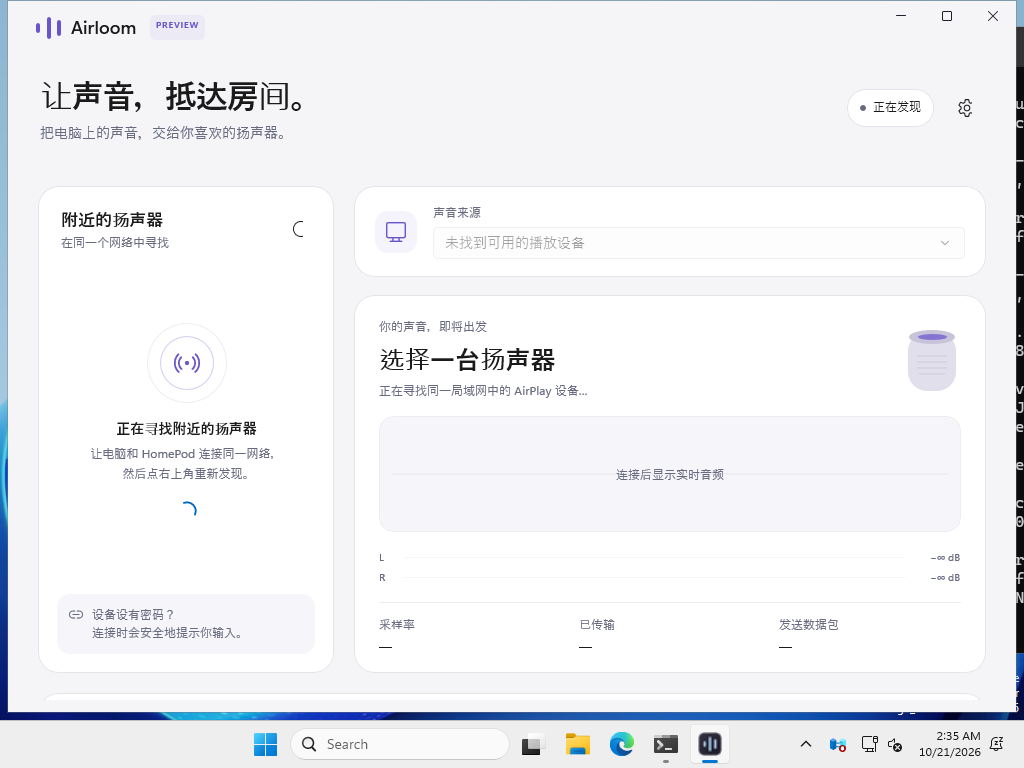
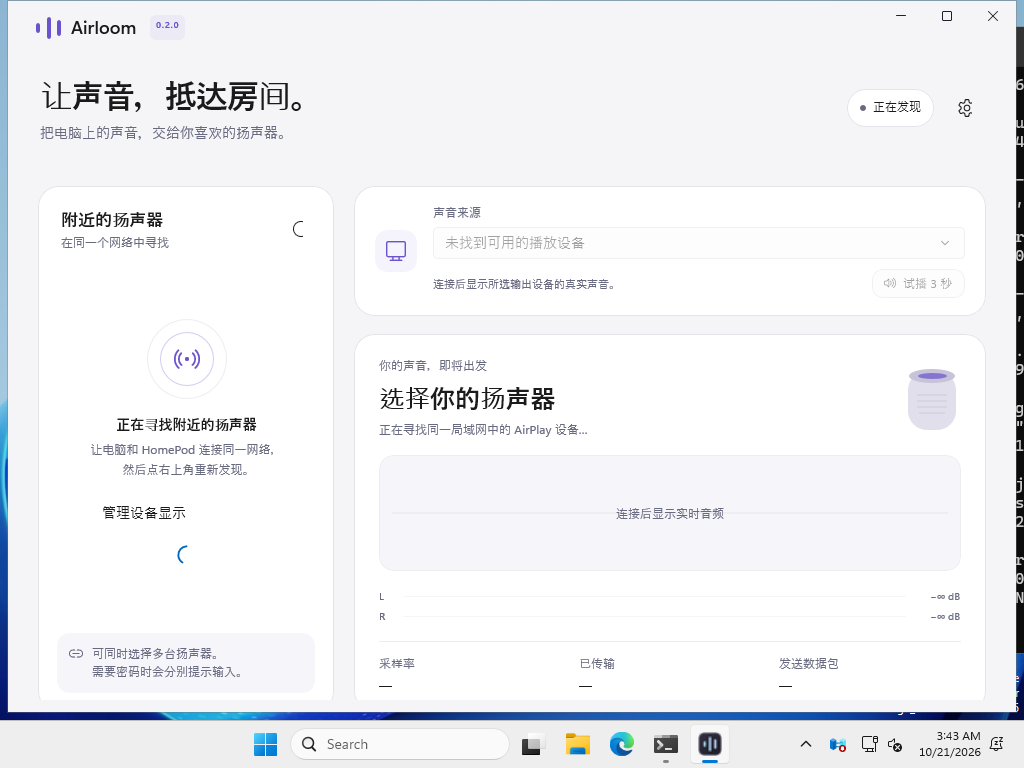
docs: publish 0.2.0 downloads, native evidence and validation scope [skip ci]

diff --git a/README.md b/README.md
@@ -4,7 +4,7 @@
 
 一个从零实现的 Windows 原生音频投放应用：WinUI 3 界面、Rust 音频核心、Windows 自带音频采集。无需安装自定义虚拟声卡驱动。
 
-> **开发中 · 0.1.1**：已提供 Windows 安装包和便携版，并通过原生编译、打包启动及协议自动化检查。真实 HomePod 的播放与兼容性尚待实机验证；当前不承诺全型号、全固件、立体声组合或所有访问控制策略可用。
+> **开发中 · 0.2.0**：修正“已连接、波形正常但无声”相关的 PTP 播放时间报文，加入多设备投放、原生设置页与应用内更新。用户已确认 0.1.1 的采集和连接状态；0.2.0 的真实 HomePod 可听播放仍待实机复测，不承诺全型号、全固件、立体声组合或所有访问控制策略可用。
 
 [![Build and verify](https://github.com/chummumm/airloom/actions/workflows/ci.yml/badge.svg)](https://github.com/chummumm/airloom/actions/workflows/ci.yml)
 [![License: MIT](https://img.shields.io/badge/License-MIT-8b7cf6.svg)](LICENSE)
@@ -13,54 +13,65 @@
 
 ![Airloom 原生窗口的实际 Windows CI 截图](docs/evidence/native-window.png)
 
-这是首版 0.1.0 便携 ZIP 解压后实际启动的 WinUI 3 窗口，0.1.1 保留相同界面布局。CI 没有可用的播放设备，也未连接 HomePod，因此截图显示真实的发现空状态。小屏幕下可向下滚动访问开始投放、音量和静音控制。
+![Airloom 原生设置页及检查更新结果](docs/evidence/settings-window.png)
+
+这是 0.2.0 便携 ZIP 解压后实际启动的 WinUI 3 窗口。Windows CI 打开设置页、执行真实 GitHub 更新检查，再返回首页。CI 没有可用的播放端点，也未连接 HomePod，因此首页显示真实的发现空状态。小屏幕下可滚动访问更多控制。
 
 ## 体验
 
 - **原生界面**：WinUI 3 / C++/WinRT，深浅主题、Mica 背景、设备卡片、连接状态过渡。
 - **实时展示**：由真实音频驱动的波形、左右声道电平和传输指标；没有音频时显示平线，不生成假设备或假播放状态。
 - **免驱投放**：采集系统默认或指定的现有输出设备，通过局域网向 AirPlay 接收端发送。
+- **多设备投放**：一次采集，同一份音频发往多个独立连接。可在播放中选择、取消或重试单台设备；一台等待密码或连接失败，不会停止其他设备。
 - **密码与配对**：区分设备密码、配对码、长期配对凭据；认证失败可以重新输入。记住凭据需要主动勾选，存入 Windows 当前用户的凭据管理器。
+- **独立设置页**：管理主题、波形、登录启动和设备可见性；隐藏选择会保留，离线设备也可恢复显示。
+- **应用内更新**：检查 GitHub 最新正式版本，下载并校验 SHA-256，退出后安装并重新打开。成功、取消或失败后的包会清理；中断和占用残留在后续启动时重试。
 - **托盘控制**：单击打开窗口，右键控制；托盘退出真正结束后台。登录自启可选。
 - **本机静音**：可选，默认关闭；停止时只恢复仍由当前会话拥有的变更，不覆盖用户后来手动修改的状态。
 
 ## 下载与运行
 
-下载 [Airloom 0.1.1 · Latest](https://github.com/chummumm/airloom/releases/latest)：
+下载 [Airloom 0.2.0 · Latest](https://github.com/chummumm/airloom/releases/latest)：
 
-0.1.1 修正首次建立会话时可能导致 `session SETUP 400` 的 MAC 地址格式、PTP 时钟整数编码及 peer 字段问题。升级前先从托盘退出旧版，再运行新安装包；详见[版本说明](docs/releases/0.1.1.md)。
+0.2.0 修正 PTP 公告长度和播放时间映射、多设备监听端口冲突及定时器迟到时的音频生产节奏。升级前先从托盘退出旧版，再运行新安装包；详见[版本说明](docs/releases/0.2.0.md)。
 
 | 文件 | 用途 |
 | --- | --- |
-| [Airloom-0.1.1-setup-x64.exe](https://github.com/chummumm/airloom/releases/download/v0.1.1/Airloom-0.1.1-setup-x64.exe) | 按当前用户安装，约 40 MB |
-| [airloom-windows-x64-portable.zip](https://github.com/chummumm/airloom/releases/download/v0.1.1/airloom-windows-x64-portable.zip) | 完整解压即可运行，约 60 MB |
-| [SHA256SUMS.txt](https://github.com/chummumm/airloom/releases/download/v0.1.1/SHA256SUMS.txt) | 两个下载文件的完整性校验值 |
+| [Airloom-0.2.0-setup-x64.exe](https://github.com/chummumm/airloom/releases/download/v0.2.0/Airloom-0.2.0-setup-x64.exe) | 按当前用户安装 |
+| [airloom-windows-x64-portable.zip](https://github.com/chummumm/airloom/releases/download/v0.2.0/airloom-windows-x64-portable.zip) | 完整解压到新目录后运行 |
+| [SHA256SUMS.txt](https://github.com/chummumm/airloom/releases/download/v0.2.0/SHA256SUMS.txt) | 两个下载文件的完整性校验值 |
 
-0.1.1 来自[全部检查通过的构建](https://github.com/chummumm/airloom/actions/runs/39536144084)，源码提交为 `e82e0e2b1e16f41762244fb1e22614e40d04527d`。发布页也保留原生窗口截图与启动检查结果。后续开发构建可在 [Actions](https://github.com/chummumm/airloom/actions/workflows/ci.yml) 的 `airloom-windows-x64` Artifact 中获取。
+0.2.0 来自[全部检查通过的构建](https://github.com/chummumm/airloom/actions/runs/39539682618)，源码提交为 `f809d70546be63115b61856631eccdc78bed2173`。发布页保留首页、设置页截图与启动/更新检查结果。后续开发构建可在 [Actions](https://github.com/chummumm/airloom/actions/workflows/ci.yml) 的 `airloom-windows-x64` Artifact 中获取。
 
 要求 Windows 11 x64（build 22000 或更高）。电脑与接收端需处于可以互相发现和通信的局域网。解压便携 ZIP 后运行 `Airloom.exe`，或运行安装包。不要只复制 EXE：原生应用和 Windows App SDK 的自包含文件需要放在一起。
 
 1. 打开 Airloom，等待发现设备；必要时点击重新扫描。
-2. 选择 HomePod 和声音来源。
+2. 选择一台或多台 HomePod，以及声音来源。
 3. 点击开始投放；按提示输入设备密码或配对码。
 4. 如需只由接收端播放，可尝试“静音本机”，并确认接收端仍有声音。
 
 程序不需要 Apple Account 密码。Windows 声音输出列表不会新增“Airloom 声卡”；投放设备在本应用中选择。
 
+如果波形正常但音响无声，可按“试播 3 秒”发送独立测试音，并记录设备型号、固件版本和状态提示。波形与发送包数证明采集/发送在工作，不能单独证明接收端已经播放。
+
+从本版本起，在设置中点击“检查更新”可获取后续正式版本。应用内更新使用安装程序更新当前运行目录，清理仅限 Airloom 自己的更新缓存；手动下载到“下载”文件夹的安装包不在清理范围内。详见[更新设计与验证](docs/updates.md)。
+
 ## 已实现的代码与验证边界
 
 | 项目 | 当前范围 |
 | --- | --- |
-| 原生窗口、设备/声源选择、认证界面、波形和托盘 | 独立 WinUI 3 工程，使用真实引擎状态；Windows CI 编译、打包及便携包窗口启动通过 |
+| 原生窗口、设置、设备/声源选择、认证界面、波形和托盘 | 独立 WinUI 3 工程，使用真实引擎状态；Windows CI 编译、打包、设置导航和真实更新检查通过 |
 | Windows 音频 | 已有端点的 WASAPI 共享模式 loopback；格式转换、双声道重采样、有界缓冲 |
 | 单独应用采集 | 暂未提供，不在 UI 展示未实现选项 |
 | AirPlay | 设备发现、独立认证/会话/音频发送实现，详见协议文档 |
 | 密码保护 | 有协议与 UI 实现；需要逐型号、固件和访问策略实测 |
+| 多设备 | 独立发送队列、认证与恢复，共用一次采集；自动测试验证分发完整性和故障隔离，真实多音响效果待测 |
+| 更新与包清理 | 原生助手通过校验拒绝、等待旧进程、成功/取消、重启与缓存清理的 Windows 生命周期测试 |
 | 实际播放延迟 | 尚未测量，不把接收缓冲设置当作端到端实测值 |
 | HomePod 立体声组合、多房间同步 | 未验证 |
-| 真实 HomePod 实机结果 | 已收到首个 SETUP 400 的报告并修正请求格式；等待 0.1.1 实机复测 |
+| 真实 HomePod 实机结果 | 0.1.1 已连接并采集到有效音频，但用户反馈无声；0.2.0 修正可验证的播放时钟报文缺陷，等待实机复测 |
 
-本次发布的 Linux 常规测试 44 项、Windows 常规测试 42 项全部通过。Linux 另通过 FFmpeg 对 ALAC 的独立解码检查；Windows 未安装 FFmpeg，因此该项在那里跳过。其中包含 4 项新增 SETUP 字段与二进制编码回归。认证验证包含独立 SRP 数学向量，以及合成接收端上的密码、PIN、重新验证、加密音频与错误密码拒绝流程。这些检查不替代真实 HomePod 播放测试。
+本次发布的 Linux 常规测试 63 项、Windows 常规测试 61 项全部通过。Linux 另通过 FFmpeg 对完整 RTP 加密负载解密后的 ALAC 独立解码检查；Windows 未安装 FFmpeg，该项在那里跳过。回归包含独立 PTP 抓包 fixture、接收端播放锚点、两个接收端共用真实监听端口、完整加密会话与非零 PCM 解码，以及多设备分发、迟到唤醒、独立认证和恢复。原生更新策略与 Windows 助手生命周期也有独立测试。这些检查不替代真实 HomePod 播放测试。
 
 WASAPI 采集不会自动改变应用的本地输出路由。独占模式、受保护内容、声卡特有音效和静音位置可能影响采集。没有声卡驱动签名问题，但公开下载的预览应用/安装包仍可能出现系统的发布者或信誉提示。
 
@@ -92,6 +103,7 @@ cargo fmt --all -- --check
 | 目录 | 内容 |
 | --- | --- |
 | `native/Airloom` | WinUI 3 / C++/WinRT 原生应用 |
+| `native/Updater` | 独立更新助手、下载校验与缓存清理 |
 | `crates/airloom-core` | 用户操作、连接状态、会话调度、C ABI |
 | `crates/airloom-capture` | Windows 音频采集和凭据存储 |
 | `crates/airloom-airplay` | 独立 AirPlay 发现、认证和发送器 |

diff --git a/docs/architecture.md b/docs/architecture.md
@@ -8,29 +8,39 @@ Airloom 是从零实现的 Windows 桌面项目。它使用 Windows 自带的 WA
 | --- | --- | --- |
 | `airloom-capture` | 已有音频端点枚举、采集、格式转换、重采样、可选本机静音、凭据存储 | COM 生命周期、WASAPI 缓冲区、设备格式、线程归属 |
 | `airloom-airplay` | mDNS 发现、认证、RTSP 控制、音频编码与发送、时钟与重传 | SRP/TLV/加密帧、协议序列、网络包 |
-| `airloom-core` | 用户选择、连接状态、取消、恢复、可观测指标 | 网络与音频模块之间的调度、密码生命周期 |
+| `airloom-core` | 多设备选择、各设备连接状态、共享采集与分发、取消、恢复、可观测指标 | 音频调度、任务代次、各设备密码生命周期 |
 
 `native/Airloom` 是真正的 WinUI 3 应用。它通过一个很小的 UTF-8 JSON C ABI 与 `airloom_core.dll` 交换命令和快照；GUI 线程不执行网络连接或音频采集。ABI 见 [`include/airloom.h`](../include/airloom.h)。
 
 ## 声音与时序
 
-Windows 采集在线程内部转换成 44.1 kHz 双声道浮点 PCM。核心把它量化成 16-bit PCM 后交给发送器。采集队列有界；发送拥塞不能导致无限堆积，恢复连接时不能播放数秒前的陈旧音频。UI 的波形和左右声道电平来自真实 PCM；空闲状态为平线。
+Windows 采集在线程内部转换成 44.1 kHz 双声道浮点 PCM。所有所选设备共用一次采集；核心把每个完整音频块量化成 16-bit PCM，以共享数据分别交给各设备独立的有界队列。每个 Sender 在自己的任务中控制发送节奏，既不争抢采集数据，也不让慢设备阻塞其他设备。PTP 网络端口按本地接口共用，各接收端的时钟跟随状态仍然独立。
+
+核心按单调时间线每 10 ms 产生 441 帧，定时器只负责唤醒。延迟唤醒按应有的块数补齐，每次最多补 8 块；超过 200 ms 的停顿丢弃旧采集积压后恢复。各设备最多排队 16 个块，超过 200 ms 的待发送块不再进入 Sender；队列拥塞或发送失败只触发该设备的恢复流程。多个设备可以同时播放，但这里不承诺原生立体声组或采样级多房间同步。
+
+界面波形和左右电平展示输出 PCM，空闲时为平线。用户主动触发的 3 秒测试音在输出阶段加入并明确标记；独立的 `capture` 指标始终报告实际 Windows 端点、采集帧数和源信号，不会把测试音或补入的静音当成采集成功。
 
 声音捕获只涵盖已有端点的共享模式播放。当前界面只展示已实现的端点源，不把未实现的进程采集作为可选项。WASAPI loopback 不等于路由：采集不会自动移除本机声音。静音是用户可选操作，不默认开启；具体端点的静音前采集行为必须实机验证。
 
 ## 连接与密码
 
-连接状态明确区分空闲、发现、连接中、等待认证、发送中、重连和错误。只有发送器完成会话建立并启动音频采集后，才进入发送状态。它表示发送链路已建立，不是设备已经发出可听声音的测量结果。
+每台设备分别维护空闲、连接中、等待认证、发送中、重连和错误状态。只要仍有设备发送，全局状态保持 `streaming`，另一台设备可以同时等待认证或显示错误。只有发送器完成会话建立且共享采集已启动后，该设备才进入发送状态；它表示发送链路已建立，不是设备已经发出可听声音的测量结果。声源、音量和本机静音共用，更换声源会重启所选设备的连接。
 
-设备密码、配对码和长期配对凭据是不同的数据。认证模块根据接收端响应处理；凭据失败返回认证界面，不能无限自动重试。密码不进入快照、错误诊断、日志或仓库。只有用户勾选“在此电脑记住”时，才持久化到 Windows 当前用户的凭据存储。忘记设备会删除已存凭据。
+设备密码、配对码和长期配对凭据是不同的数据，分别绑定设备身份。认证按设备顺序处理，弹窗请求编号和连接任务代次用于拒绝过期结果；第二台设备认证或连接失败不会停止第一台。凭据失败返回认证界面，不能无限自动重试。密码不进入快照、错误诊断、日志或仓库。只有用户勾选“在此电脑记住”时，才持久化到 Windows 当前用户的凭据存储；忘记凭据只删除对应设备的记录。
+
+## 原生设置与更新
+
+`native/Airloom` 管理主题、波形显示、托盘、可选开机启动和设备可见性；这些偏好保存在当前用户设置中，不含密码。隐藏设备会先取消该设备的选择，恢复显示不会自动连接；设备发现也不会自动选中新目标。开机启动只进入托盘，不自动采集、连接或静音。
+
+更新服务独立于 Rust 音频引擎，在原生后台任务中检查发布版本、下载并核对安装包 SHA-256。用户发起安装后，界面正常停止核心并退出，`native/Updater` 中的独立助手等待主进程结束，再安装、重新打开应用并清理下载内容。
 
 ## 静音恢复与退出
 
-捕获模块记录自己设置的端点静音变更，监听外部修改。停止、断线和正常退出时，只恢复仍归当前会话拥有的变更，避免覆盖用户之后的操作。窗口关闭可以进入托盘；托盘退出必须真正停止核心并退出进程。
+捕获模块记录自己设置的端点静音变更，监听外部修改。最后一条发送链路停止、整体断线、切换声源或正常退出时，只恢复仍归当前会话拥有的变更，避免覆盖用户之后的操作。停止其中一台设备时，其余设备继续使用共享采集。窗口关闭可以进入托盘；托盘退出必须真正停止核心并退出进程。
 
-硬杀进程、断电等情形无法保证执行清理，因此自动静音不是无条件恢复承诺。第一版默认关闭该开关。
+硬杀进程、断电等情形无法保证执行清理，因此自动静音不是无条件恢复承诺。该开关默认关闭。
 
 ## 可验证边界
 
-协议解析、认证数学、PCM 转换、重采样、静音所有权、ABI 输入边界通过自动化测试验证。Windows CI 负责编译原生 UI 和平台代码。真实 HomePod 的固件、密码开关、访问控制、休眠、断网与立体声组合必须用实际设备验证，不能由编译成功替代。
+协议解析、认证数学、PCM 转换、重采样、静音所有权、广播分发、故障隔离、过期认证、单调调度和 ABI 输入边界通过自动化测试验证。Windows CI 负责编译原生 UI 和平台代码。真实 HomePod 的固件、密码开关、访问控制、休眠、断网与多设备播放必须用实际设备验证，不能由编译成功替代。
 
